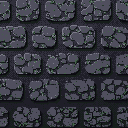
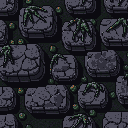
Corrupted wall texture: dark stones overgrown with dead rotting roots (PixelLab), warm tones turned to rot-green by the importer

diff --git a/tools/art/import_pixellab.py b/tools/art/import_pixellab.py
@@ -593,7 +593,9 @@ def rot_from_bruise(img):
             (("bruise_900", "moss_900"), ("bruise_700", "moss_700"), ("bruise_500", "moss_500"),
              ("stone_100", "stone_300"), ("stone_300", "stone_500"), ("bone_500", "stone_500"), ("bone_700", "stone_500"),
              ("bone_300", "stone_300"), ("blood_500", "moss_500"), ("blood_700", "moss_700"), ("wood_500", "stone_700"),
-             ("wood_700", "stone_800"), ("rust_500", "moss_700"), ("rust_700", "moss_900"))}
+             ("wood_700", "stone_800"), ("rust_500", "moss_700"), ("rust_700", "moss_900"),
+             ("torch_700", "moss_700"), ("torch_500", "moss_500"), ("torch_300", "curse_700"), ("leather_400", "moss_500"),
+             ("soil_900", "moss_900"))}  # (Warm tendrils and berries become dead green rot: torchlight is the only warm colour.)
     px = img.load()
     for y in range(img.height):
         for x in range(img.width):

diff --git a/docs/asset_log.md b/docs/asset_log.md
@@ -12,7 +12,7 @@ Entries before 2026-11-09 were filled in afterwards from the git history and the
 | `art/spells/magic_missile/cast_sheet.png`, `projectile_sheet.png`, `impact_sheet.png` | `vfx_workbench` (inferred: the sources carry the "PixelLab VFX Creator" tag) | before 2026-11-07 | ? (free tool) |
 | `tools/art/pieces/ui/ruin_stone.png` (stone for `art/ui/arrow_*.png`) | `create_image_pixflux` | 2026-11-07 | 1 |
 | `art/ui/arrow_*.png` first attempts (shaded and ruined arrows, replaced by the script version) | `edit_image_pixen` | 2026-11-07 | 17 (1 + 1 + 1 + 12 + 2 rejected tries; discarded) |
-| `art/tiles/wall_corrupted.png` (kept; source `tools/art/pieces/corruption/wall_raw.png`) | `create_image_pixflux` | 2026-11-09 | 1 (3 tries: 1 kept; the other 2, a dark brick and an archway, are discarded) |
+| `art/tiles/wall_corrupted.png` (kept; source `tools/art/pieces/corruption/wall_raw.png`, which is `wall_try4_roots.png`: dark stones with dead rotting roots clawing over them; the first version was a moss-speckled cobble texture, now `wall_try3_moss_cobbles.png`) | `create_image_pixflux` | 2026-11-09 | 5 in all (the 2 for this version: roots, kept, and a mossy brick; earlier 3: a dark brick, an archway, a moss cobble) |
 | `art/corruption/veins_sheet.png` (source `tools/art/pieces/corruption/veins.png`): the pulsing green curse veins, a 12-frame loop. Redone 2026-11-09 as curved, tapering roots with side-branches and a pulse that runs outward from the heart (the first version was jagged lightning-like `bolt` layers) | `vfx_workbench` (own layers: smooth `shape` strokes with `reveal` for the travelling pulse, plus a `glow`; effect "eye-of-bell-corruption-veins", exported with `--replace`) | 2026-11-09 | 0 (free tool) |
 | `art/corruption/purge_sheet.png` (source `.../purge.png`): the gold holy light burning the veins away from the centre outward, 14 frames. Redone 2026-11-09: a second, slower ring, gold cracks that race outward along the same roots as the green veins (so it reads as burning along them) and then cool and fade, instead of one plain ring | `vfx_workbench` (own layers: `glow`, two `ring`s, `shape` strokes with `reveal` on the veins' own paths, `rays`, `particles`; "eye-of-bell-holy-purge", exported with `--replace`) | 2026-11-09 | 0 (free tool) |
 | `art/corruption/ash_sheet.png` (source `.../ash.png`): the wall crumbling to ash and dust, 17 frames. Redone 2026-11-09: the dust is now two ragged, drifting layers that thin to a haze (the first version was one flat blob) | `vfx_workbench` (own layers: two `noise` discs on a dark ramp with growing radius and fading opacity, falling `particles`; "eye-of-bell-ash-crumble", exported with `--replace`) | 2026-11-09 | 0 (free tool) |
